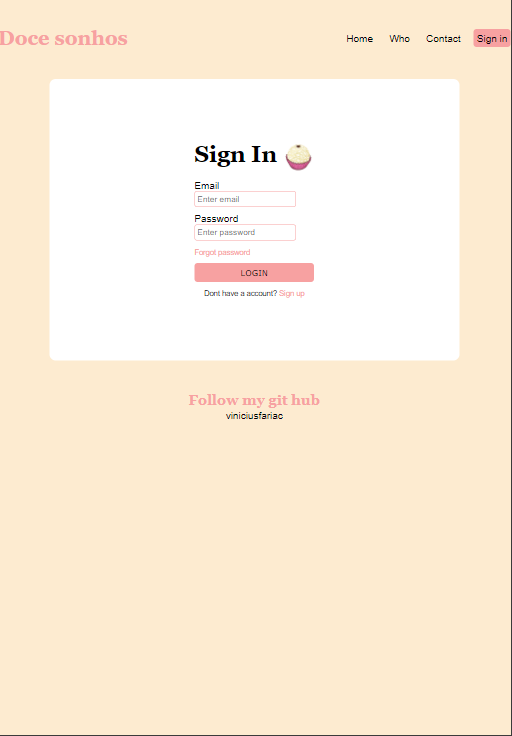
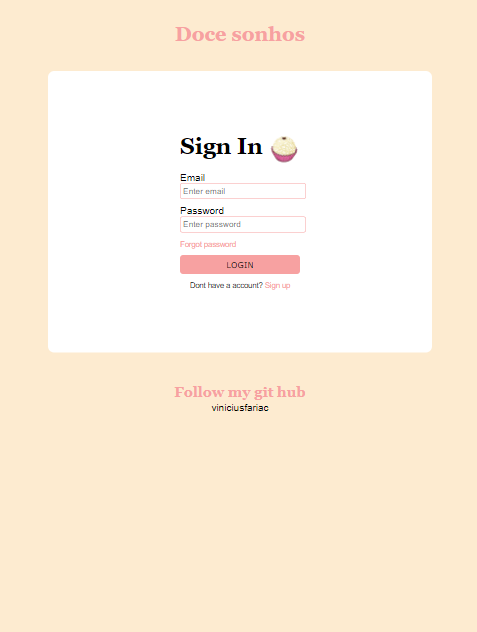
Retirando menu do smartphone e ipada, e adicionando novas fotos no Readme.md

diff --git a/css/style.css b/css/style.css
@@ -154,7 +154,7 @@ footer h3{
     color: #F7A1A1;
 }
 /*Responsivo*/  
-@media (max-width: 912px) {
+@media (max-width: 1024px) {
     .container {
         width: 80%;
         height: 450px;
@@ -193,6 +193,14 @@ footer h3{
         margin-left: 0; 
         width: 100%; 
     }
+    header{
+        text-align: center;
+        justify-content: center;
+    }
+    #header-links{
+        display: none;
+    }
+    
 }
 
 @media (max-width: 480px) {
@@ -211,5 +219,8 @@ footer h3{
 
     .container h2 {
         font-size: 28px;
+    }
+    #header-links{
+        display: none;
     }
 }
